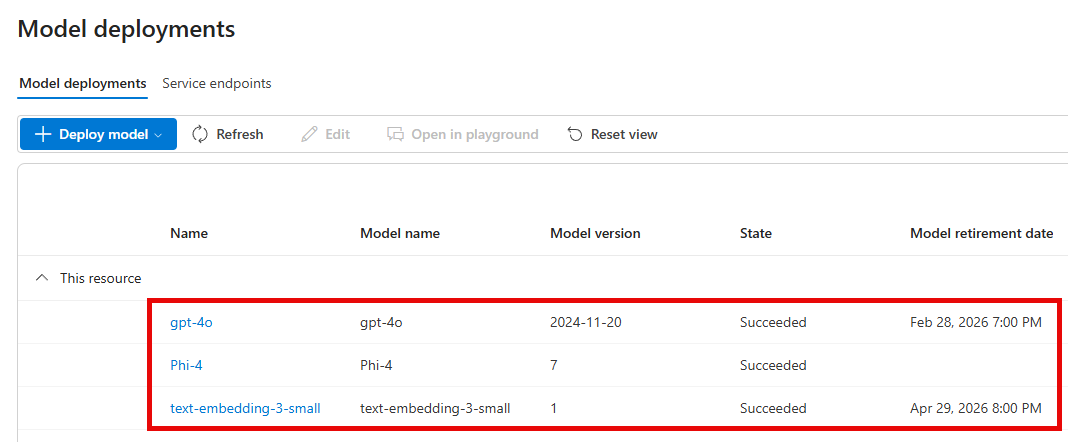
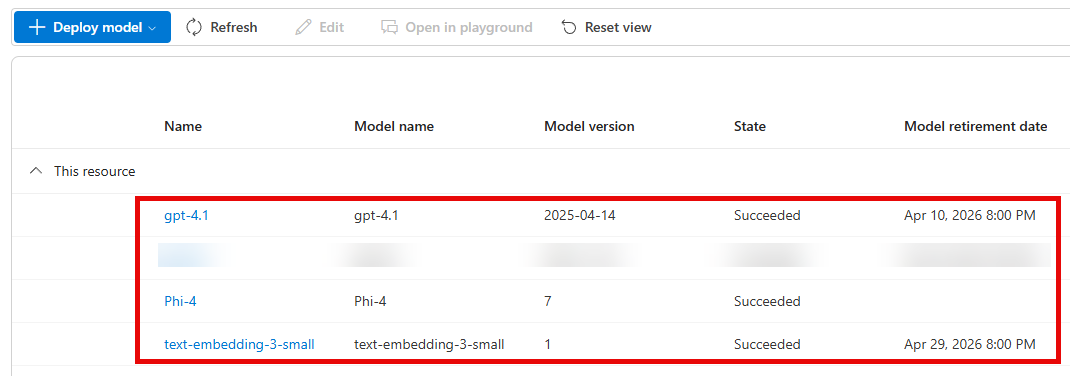
Add new images, rename src to app, use gpt-4.1.

diff --git a/src/chat_app.py b/src/chat_app.py
@@ -5,17 +5,17 @@ from dotenv import load_dotenv
 from azure.ai.projects import AIProjectClient
 from azure.identity import DefaultAzureCredential
 from azure.ai.inference.models import SystemMessage, UserMessage
-from src.agents.agent_processor import AgentProcessor
+from app.agents.agent_processor import AgentProcessor
 from azure.ai.inference import ChatCompletionsClient
 from azure.core.credentials import AzureKeyCredential
 from collections import deque
 from typing import Deque, Tuple, Optional, Dict
 import orjson  # Faster JSON library
 from openai import AzureOpenAI
-from src.tools.aiSearchTools import product_recommendations
-from src.tools.understandImage import get_image_description
-from src.tools.understandVideo import get_video_summary
-from src.tools.singleAgentExample import generate_response
+from app.tools.aiSearchTools import product_recommendations
+from app.tools.understandImage import get_image_description
+from app.tools.understandVideo import get_video_summary
+from app.tools.singleAgentExample import generate_response
 from azure.core.credentials import AzureKeyCredential
 import asyncio
 import datetime
@@ -26,7 +26,7 @@ from opentelemetry.trace import SpanKind
 from azure.ai.agents.telemetry import trace_function
 from utils.history_utils import format_chat_history, redact_bad_prompts_in_history, clean_conversation_history
 from utils.response_utils import extract_bot_reply, parse_agent_response, merge_cart_and_cora
-from tools.imageCreationTool import create_image
+from app.tools.imageCreationTool import create_image
 import logging
 import aiohttp
 from concurrent.futures import ThreadPoolExecutor
@@ -243,7 +243,7 @@ def call_router(router_client: ChatCompletionsClient, router_prompt: str, format
             log_timing("Router Call (Exception)", start_time, f"Exception: {str(e)[:50]}...")
             raise
 
-def call_fallback(llm_client, fallback_prompt: str, gpt_deployment = "gpt-4o"):
+def call_fallback(llm_client, fallback_prompt: str, gpt_deployment = "gpt-4.1"):
     """Call the fallback model and return its reply."""
     start_time = time.time()
     

diff --git a/src/services/fallback_service.py b/src/services/fallback_service.py
@@ -1,4 +1,4 @@
-def call_fallback(llm_client, fallback_prompt: str, gpt_deployment = "gpt-4o"):
+def call_fallback(llm_client, fallback_prompt: str, gpt_deployment = "gpt-4.1"):
     """Call the fallback model and return its reply."""
     chat_prompt = [    
         {
@@ -23,7 +23,7 @@ def call_fallback(llm_client, fallback_prompt: str, gpt_deployment = "gpt-4o"):
         stream=False)
     return completion.choices[0].message.content
 
-def cora_fallback(llm_client, fallback_prompt: str, gpt_deployment = "gpt-4o"):
+def cora_fallback(llm_client, fallback_prompt: str, gpt_deployment = "gpt-4.1"):
     """Call the fallback model for cora and return its reply."""
     chat_prompt = [    
         {
